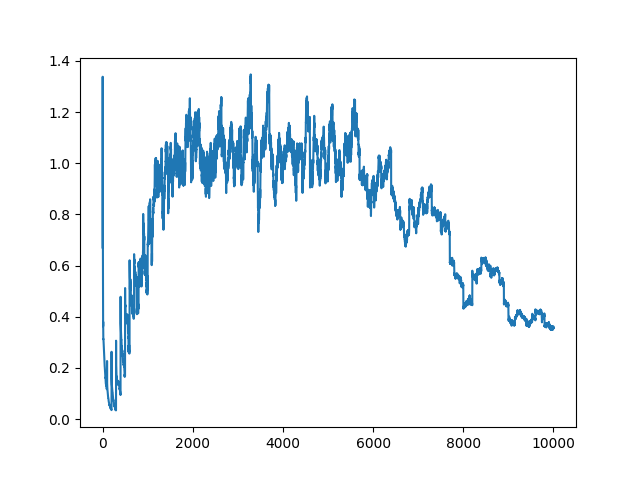
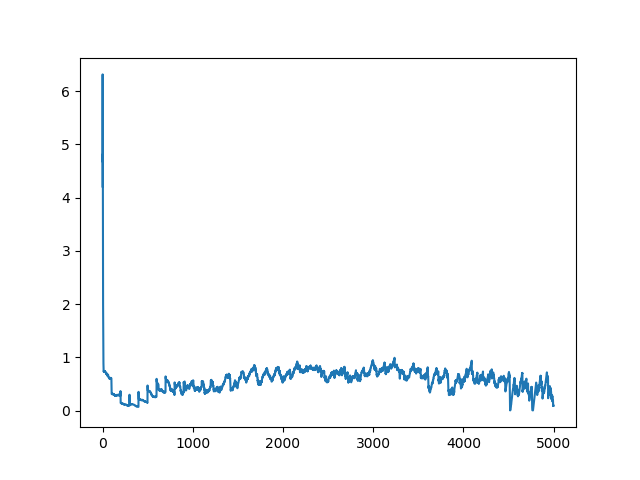
Auto stash before merge of "master" and "origin/master"

diff --git a/qlearning_reseau_v2.py b/qlearning_reseau_v2.py
@@ -8,10 +8,10 @@ from matplotlib import pyplot as plt
 
 MEM_SIZE = 1000
 T_MAX = 200
-HIDDEN_DIM = 128
-MAX_ITER = 10000
+HIDDEN_DIM = 64
+MAX_ITER = 5000
 BATCH_SIZE = 32
-DISCOUNT = 0.9
+DISCOUNT = 0.8
 LEARNING_RATE = 0.0001
 FREEZE_PERIOD = 100 # epoch
 
@@ -77,6 +77,7 @@ def train():
     plot_tot_loss = []
     plot_cumul=[]
     cumul_test=[]
+    plot_cumul_test = []
     cumul_test.append(sample_trajectory([], Q_value, 0))
     cumul_test_tot = 0
     cumul=0
@@ -133,7 +134,7 @@ def train():
 
             epsilon = 1 - (it / MAX_ITER) # pas optimisé
 
-    return plot_tot_loss, plot_cumul, cumul_test
+    return plot_tot_loss, plot_cumul, plot_cumul_test
 
 
 
